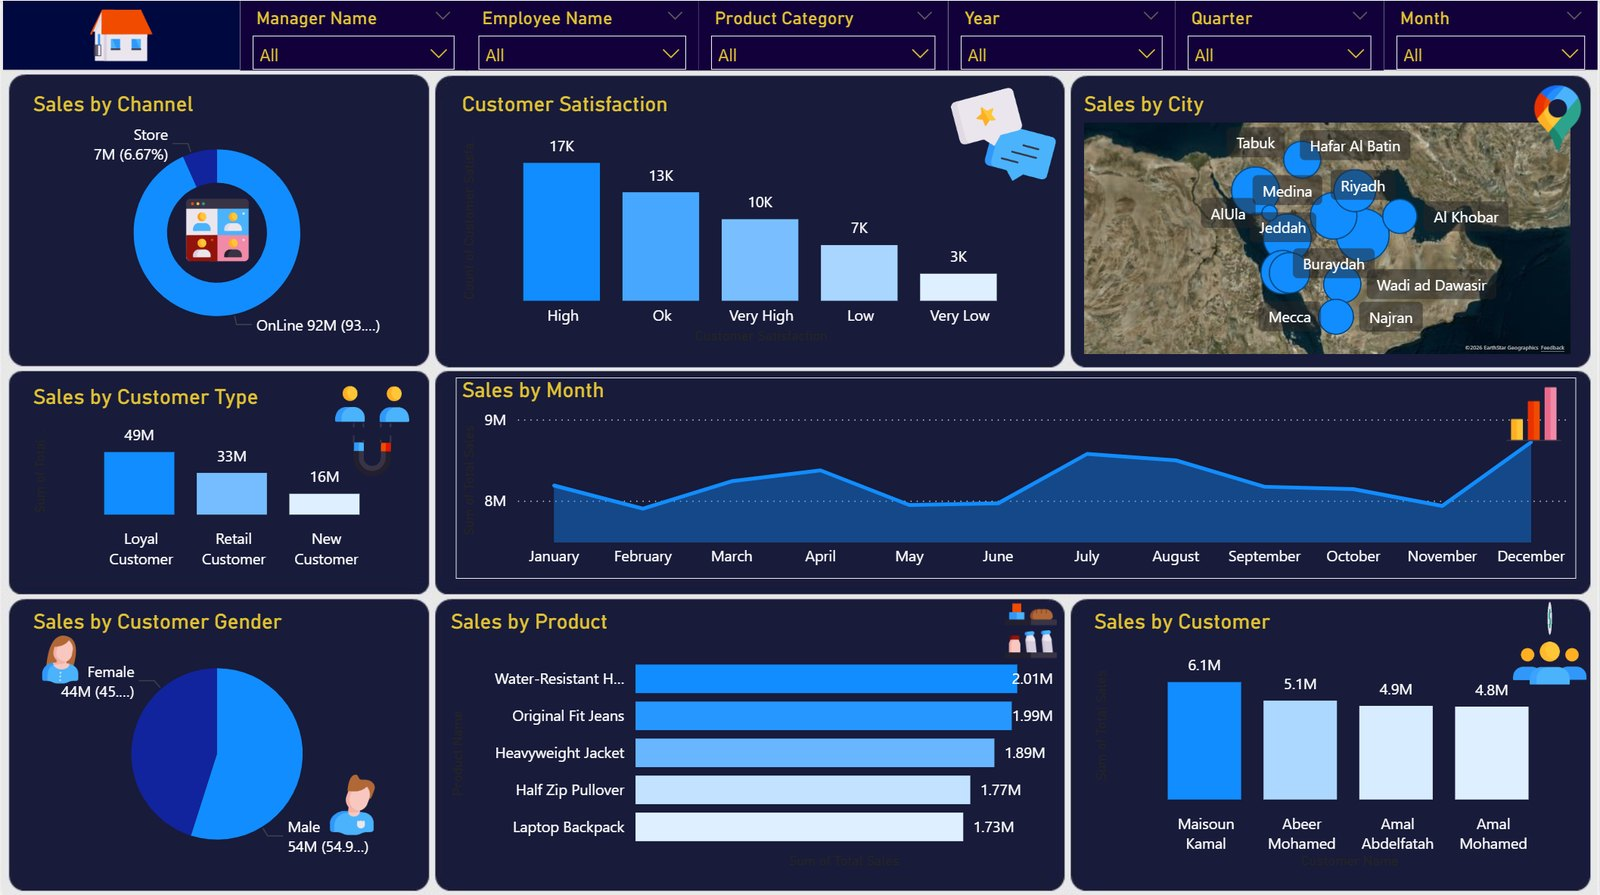
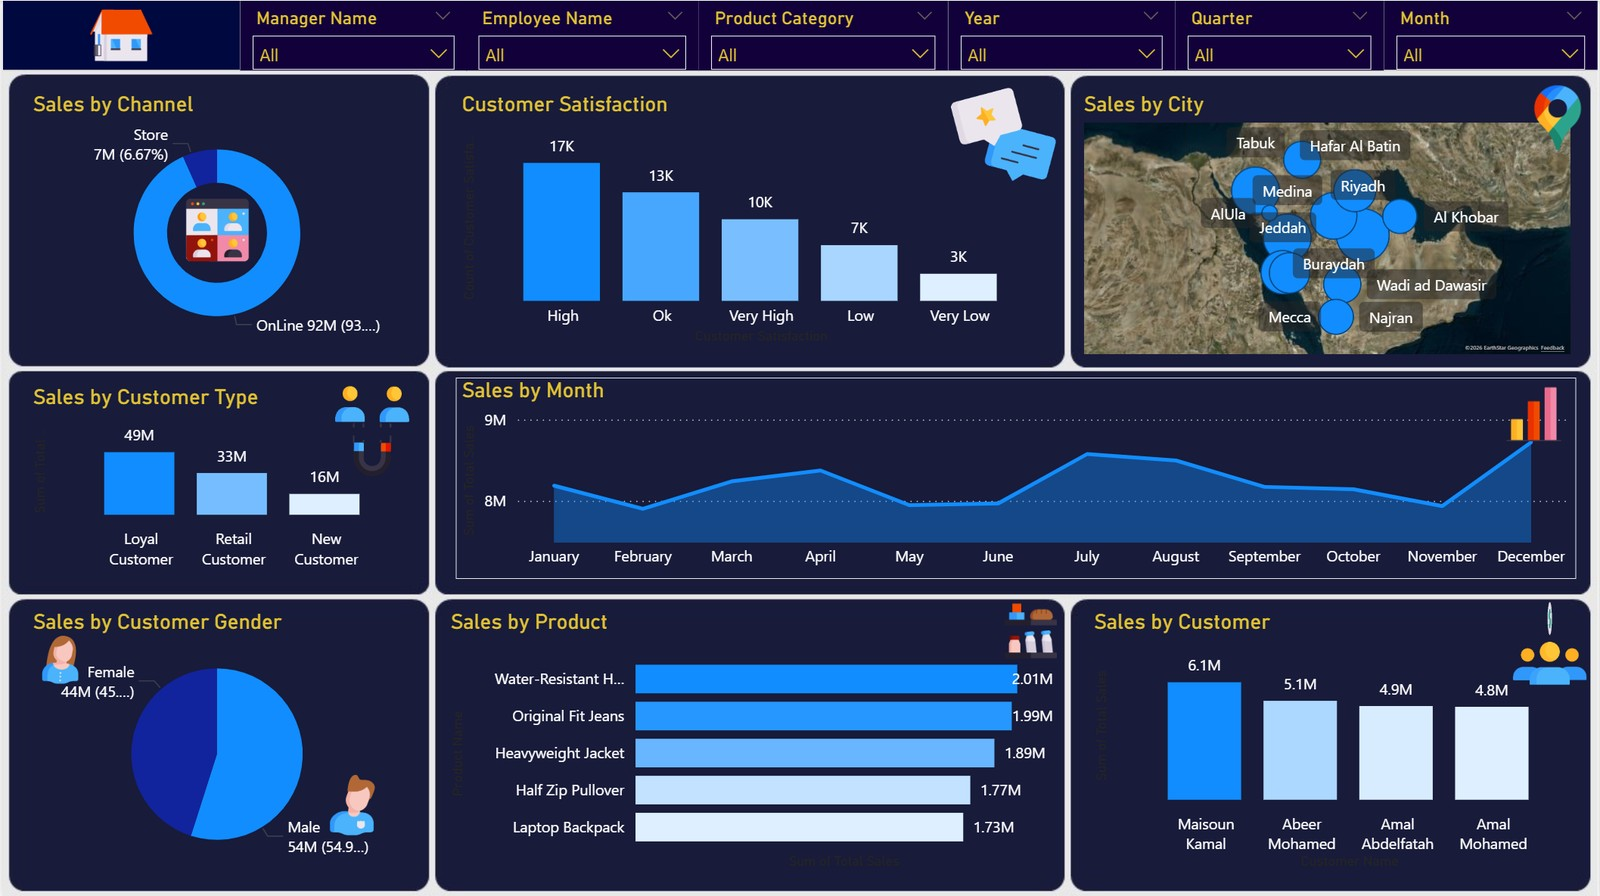
Add files via upload

diff --git a/index.html b/index.html
@@ -155,6 +155,18 @@ h2{font-size:clamp(30px,4vw,44px);letter-spacing:-.03em;margin:6px 0 10px}
 .sheet h3{font-size:26px;letter-spacing:-.02em;margin-bottom:4px}
 .frame{margin:18px 0;border-radius:20px;overflow:hidden;border:1px solid var(--stroke);aspect-ratio:16/9.6;background:#0B1430}
 .frame img,.frame iframe{width:100%;height:100%;border:0;display:block;object-fit:cover;object-position:top}
+.frame{position:relative;transition:background .3s}
+.frame img{cursor:zoom-in}
+.frame img.fit{object-fit:contain;object-position:center}
+.frame .zoom{position:absolute;right:10px;bottom:10px;font-size:12px;padding:5px 10px;border-radius:99px;background:rgba(3,7,22,.72);color:#fff;pointer-events:none}
+.lb{position:fixed;inset:0;z-index:200;background:rgba(3,7,22,.94);display:none;align-items:center;justify-content:center;padding:60px 12px 20px}
+.lb.on{display:flex}
+.lb img{max-width:100%;max-height:100%;object-fit:contain;border-radius:12px;background:#fff}
+.lb button{position:absolute;top:14px;right:14px;width:42px;height:42px;border-radius:50%;background:rgba(255,255,255,.16);color:#fff;font-size:20px}
+.gal{display:inline-flex;padding:4px;border-radius:14px;gap:2px;margin:-6px 0 18px;flex-wrap:wrap}
+.gal button{padding:7px 14px;border-radius:11px;font-size:13px;color:var(--mut);transition:.25s}
+@media(max-width:520px){.gal button{padding:7px 10px;font-size:12.5px}}
+.gal button.on{background:rgba(255,255,255,.18);color:var(--ink);box-shadow:0 2px 10px rgba(0,0,0,.25),inset 0 1px 0 rgba(255,255,255,.25)}
 .cols{display:grid;grid-template-columns:1fr 1fr;gap:22px}
 .sheet h4{font-size:13px;letter-spacing:.12em;text-transform:uppercase;color:var(--acc);margin:6px 0 10px}
 .sheet ul{list-style:none;display:grid;gap:9px}
@@ -270,10 +282,10 @@ footer{color:var(--faint);font-size:13px;text-align:center;padding:30px 0 50px}
     <div class="one">
       <div class="glass box reveal">
         <div class="tl">
-          <div><small>Nov 2026</small><b>Power BI Lecturer · King Saud University</b><p>Miras Program, PL-300 Preparation Course. Contributed 145 hours: taught Power BI hands-on (Power Query, data modeling, DAX and report design), then prepared students for the PL-300 exam, with daily quizzes, a theory exam and a final project.</p></div>
-          <div><small>Sep 2026</small><b>Microsoft Certified: Power BI Data Analyst Associate</b><p>PL-300, after the TVTC Investment Academy program (Apr 2026).</p></div>
-          <div><small>Feb 2026</small><b>Microsoft Office Specialist: Excel 2019 Associate</b><p>MOS training at Modern Studies Institute, TVTC (Nov 2025).</p></div>
-          <div><small>2020 – 2025</small><b>B.A. English Language &amp; Literature</b><p>Prince Sattam bin Abdulaziz University. Graduation project: translated a book from English to Arabic. The reason my reports read clearly.</p></div>
+          <div><small>Nov 2026</small><b>Power BI Lecturer · King Saud University</b><p>PL-300 Preparation Course, Miras Program. Contributed 145 hours: first trained students to use Power BI hands-on (Power Query, data modeling, DAX and report design), then prepared them for the Microsoft PL-300 certification exam. Prepared daily quizzes, a theory exam and a final project, and graded the students’ work.</p></div>
+          <div><small>Sep 2026</small><b>Microsoft Certified: Power BI Data Analyst Associate</b><p>Earned after completing the Certified Data Analyst (PL-300) training course, Investment Academy, TVTC (Apr 2026).</p></div>
+          <div><small>Feb 2026</small><b>Microsoft Office Specialist: Excel 2019 Associate</b><p>Earned after completing the Microsoft Office Specialist (MOS) training course, Modern Studies Institute, TVTC (Nov 2025).</p></div>
+          <div><small>2020 – 2025</small><b>B.A. English Language &amp; Literature</b><p>Prince Sattam bin Abdulaziz University. Graduation project: translated a book from English to Arabic. It’s why my reports read clearly.</p></div>
         </div>
       </div>
         </div>
@@ -282,7 +294,7 @@ footer{color:var(--faint);font-size:13px;text-align:center;padding:30px 0 50px}
   <!-- CONTACT -->
   <section id="contact" class="reveal">
     <div class="glass contact">
-      <div><span class="eyebrow">Contact</span><h2>Let’s talk data.</h2><p class="sub">Open to Data Analyst and BI roles in Riyadh.</p></div>
+      <div><span class="eyebrow">Contact</span><h2>Get in touch.</h2><p class="sub">Open to Data Analyst and BI roles in Riyadh.</p></div>
       <div class="cta" style="margin:0">
         <button class="btn p" id="copy">Copy email</button>
         <a class="btn g" href="https://www.linkedin.com/in/mazen-alqarni-" target="_blank" rel="noopener">LinkedIn</a>
@@ -294,6 +306,7 @@ footer{color:var(--faint);font-size:13px;text-align:center;padding:30px 0 50px}
 
 <div class="scrim" id="scrim"></div>
 <div class="sheet glass" id="sheet" role="dialog" aria-modal="true"><div class="grab"></div><button class="x" id="x" aria-label="Close">✕</button><div id="sheetBody"></div></div>
+<div class="lb" id="lb"><button id="lbX" aria-label="Close">✕</button><img id="lbImg" alt=""></div>
 <div class="toast glass" id="toast">Email copied ✓</div>
 
 <script>
@@ -315,7 +328,8 @@ const PROJECTS = [
    challenge:["The “overall” retention figure ignored the hiring-source filter, so one selection showed 75% when the true figure was 60%. I traced it to a REMOVEFILTERS in the measure and let the visual’s own filters apply.",
               "2022 has no prior year, so the comparison arrows were misleading. They now read “No prior-year data”."],
    dax:["CALCULATE","COUNTROWS","SUM","AVERAGE","DIVIDE","KEEPFILTERS","REMOVEFILTERS","FILTER","SELECTEDVALUE","LOOKUPVALUE","SAMEPERIODLASTYEAR","MAX"],
-   tags:["Power BI","DAX","Star schema","HR analytics"] },
+   gallery:[{label:"Data model",src:"img/ta_model.png",bg:"#E6E6E6"}],
+   tags:["Power BI","DAX"] },
  { id:"hr", cat:"hr", img:"img/hr.jpg",
    title:"KSA HR Analytics & Saudization",
    blurb:"Is the workforce meeting Saudization targets, and why do people leave?",
@@ -324,7 +338,7 @@ const PROJECTS = [
    found:["Saudization was 41.8% vs a 45% target, a gap of 68 employees.",
           "Saudis hold 23% of leadership roles but 53% of entry roles.",
           "41% of leavers quit within their first year."],
-   built:["Cleaned raw HR data in Power Query: removed duplicates, trimmed and cleaned text, standardised inconsistent spellings across 25 replace steps, fixed capitalisation, and added four custom columns.",
+   built:["Cleaned raw HR data in Power Query: removed duplicates, trimmed and cleaned text, standardised inconsistent spellings across 25 replace steps, fixed capitalisation, and added four custom columns, including one that labels missing exit reasons as “Not specified”.",
           "Star schema with DAX for headcount, attrition, Saudization gaps and YoY comparisons.",
           "Glass-style report with a reset button."],
    data:"2,133 employees in 2025 · 2022–2025 · synthetic",
@@ -332,7 +346,8 @@ const PROJECTS = [
               "When a filter left no Saudi hires, the card went blank instead of showing 0%. I made the measure return zero, so an empty result reads as a real number.",
               "Hires and exits fall on different dates. Hires use the active link to the hire date; for exits I added an inactive link on the exit date and switched it on with USERELATIONSHIP, so each exit counts in the month it happened."],
    dax:["CALCULATE","COUNTROWS","AVERAGE","DIVIDE","REMOVEFILTERS","KEEPFILTERS","ALL","USERELATIONSHIP","LOOKUPVALUE","SAMEPERIODLASTYEAR","ROUNDUP","MAX","MIN","ISBLANK","OR","YEAR"],
-   tags:["Power BI","Power Query","DAX","HR analytics"] },
+   gallery:[{label:"Data model",src:"img/hr_model.png",bg:"#E6E6E6"},{label:"Power Query",src:"img/hr_pq.jpg",bg:"#F3F2F1"}],
+   tags:["Power BI","Power Query","DAX"] },
  { id:"retail", cat:"sales", img:"img/retail.jpg",
    title:"KSA Retail Sales Performance",
    blurb:"How did 2025 sales perform against target, and what do Saudi seasons do to revenue?",
@@ -349,7 +364,8 @@ const PROJECTS = [
               "The same sales channel was recorded two ways (“WhatsApp Orders” and “WhatsApp”). I standardised it in Power Query so channel shares add up correctly.",
               "Monthly targets sit in their own fact table, linked to the same date and region tables as sales, so actual vs target follows every filter."],
    dax:["CALCULATE","SUM","COUNTROWS","DIVIDE","SAMEPERIODLASTYEAR"],
-   tags:["Power BI","Power Query","DAX","Seasonality","Retail"] },
+   gallery:[{label:"Data model",src:"img/retail_model.png",bg:"#E6E6E6"},{label:"Power Query",src:"img/retail_pq.jpg",bg:"#F3F2F1"},{label:"Tooltip",src:"img/retail_tooltip.jpg",bg:"#0B1238"}],
+   tags:["Power BI","Power Query","DAX"] },
  { id:"sales", cat:"sales", img:"img/sales.jpg",
    title:"Sales & Customer Analytics",
    blurb:"Which channels, customers and products drive revenue?",
@@ -358,10 +374,11 @@ const PROJECTS = [
    found:["Online drove 93.3% of revenue (SAR 92M) vs 6.7% from stores.",
           "Loyal customers brought SAR 49M, retail SAR 33M, new customers SAR 16M.",
           "December is the peak month, followed by July."],
-   built:["Cleaned the raw sales data in Power Query: set data types, removed unused columns, blank rows and duplicates, and replaced inconsistent values.",
+   built:["Cleaned the raw sales data in Power Query: set data types, removed unused columns, blank rows and duplicates.",
           "City-level map, dynamic slicers, animated icons and reset bookmarks."],
    data:"Single table · synthetic training-course data",
-   tags:["Power BI","Power Query","Maps","Sales"] }
+   gallery:[{label:"Power Query",src:"img/sales_pq.jpg",bg:"#F3F2F1"}],
+   tags:["Power BI","Power Query"] }
 ];
 const QA = [
  ["Who are you, in one line?","A PL-300 certified Data Analyst in Riyadh who builds Power BI dashboards that start from a business question and end with a clear finding."],
@@ -418,7 +435,8 @@ document.getElementById("seg").onclick=e=>{const b=e.target.closest("button");if
 const sheet=document.getElementById("sheet"),scrim=document.getElementById("scrim"),body=document.getElementById("sheetBody");
 function openSheet(p){
  body.innerHTML=`<h3>${p.title}</h3><p class="sub">${p.blurb}</p>
- <div class="frame" id="frame"><img src="${p.img}" alt="${p.title}"></div>
+ <div class="frame" id="frame"><img id="fImg" src="${p.img}" alt="${p.title}"><span class="zoom" id="fZoom" hidden>Tap to enlarge</span></div>
+ ${p.gallery?`<div class="gal glass" id="gal"><button class="on" data-i="-1">Dashboard</button>${p.gallery.map((g,i)=>`<button data-i="${i}">${g.label}</button>`).join("")}</div>`:""}
  <div class="cta" style="margin:0 0 22px">
    ${p.live?`<a class="btn p" href="${p.live}" target="_blank" rel="noopener">View live dashboard ↗</a>`:""}
  </div>
@@ -430,10 +448,22 @@ function openSheet(p){
    ${p.challenge?`<div class="panel"><h4>Challenges I solved</h4><ul>${p.challenge.map(x=>`<li>${x}</li>`).join("")}</ul></div>`:""}
    ${p.recommend?`<div class="panel rec"><h4>What I’d recommend</h4><ul>${p.recommend.map(x=>`<li>${x}</li>`).join("")}</ul></div>`:""}
  </div>`:""}`;
+ {const fi=document.getElementById("fImg"),fr=document.getElementById("frame");
+  const setAR=()=>{if(!fi.classList.contains("fit")&&fi.naturalWidth)fr.style.aspectRatio=fi.naturalWidth+"/"+fi.naturalHeight};
+  fi.onload=setAR;if(fi.complete)setAR()}
+ document.getElementById("fImg").onclick=e=>{const lb=document.getElementById("lb"),li=document.getElementById("lbImg");
+  li.src=e.target.src;li.style.background=e.target.classList.contains("fit")?(document.getElementById("frame").style.background||"#fff"):"transparent";lb.classList.add("on")};
+ const gal=document.getElementById("gal");
+ if(gal)gal.onclick=e=>{const btn=e.target.closest("button");if(!btn)return;
+  gal.querySelectorAll("button").forEach(x=>x.classList.toggle("on",x===btn));
+  const i=+btn.dataset.i,g=i<0?{src:p.img}:p.gallery[i],im=document.getElementById("fImg"),fr=document.getElementById("frame");
+  im.src=g.src;im.classList.toggle("fit",i>=0);
+  fr.style.background=i<0?"":(g.bg||"#fff");document.getElementById("fZoom").hidden=i<0};
  sheet.classList.add("on");scrim.classList.add("on");document.body.style.overflow="hidden"}
 function closeSheet(){sheet.classList.remove("on");scrim.classList.remove("on");document.body.style.overflow=""}
+document.getElementById("lb").onclick=()=>document.getElementById("lb").classList.remove("on");
 scrim.onclick=closeSheet;document.getElementById("x").onclick=closeSheet;
-document.addEventListener("keydown",e=>{if(e.key==="Escape")closeSheet()});
+document.addEventListener("keydown",e=>{if(e.key!=="Escape")return;const lb=document.getElementById("lb");if(lb.classList.contains("on"))lb.classList.remove("on");else closeSheet()});
 
 /* copy email */
 const copyMail=async()=>{
